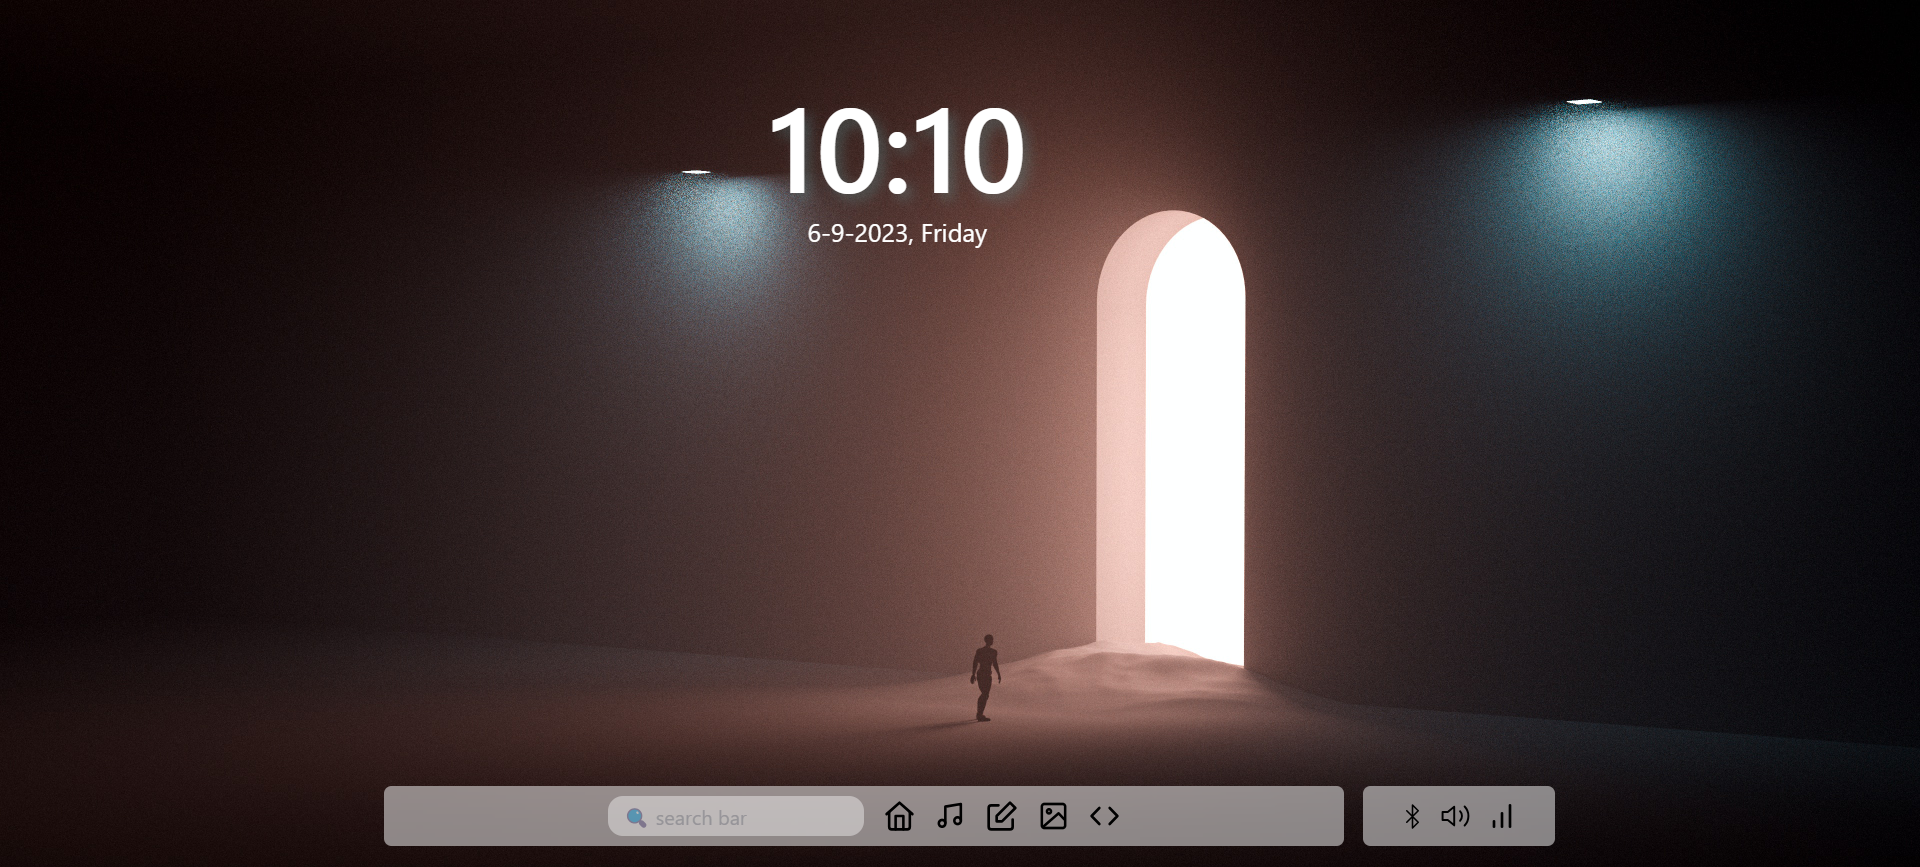
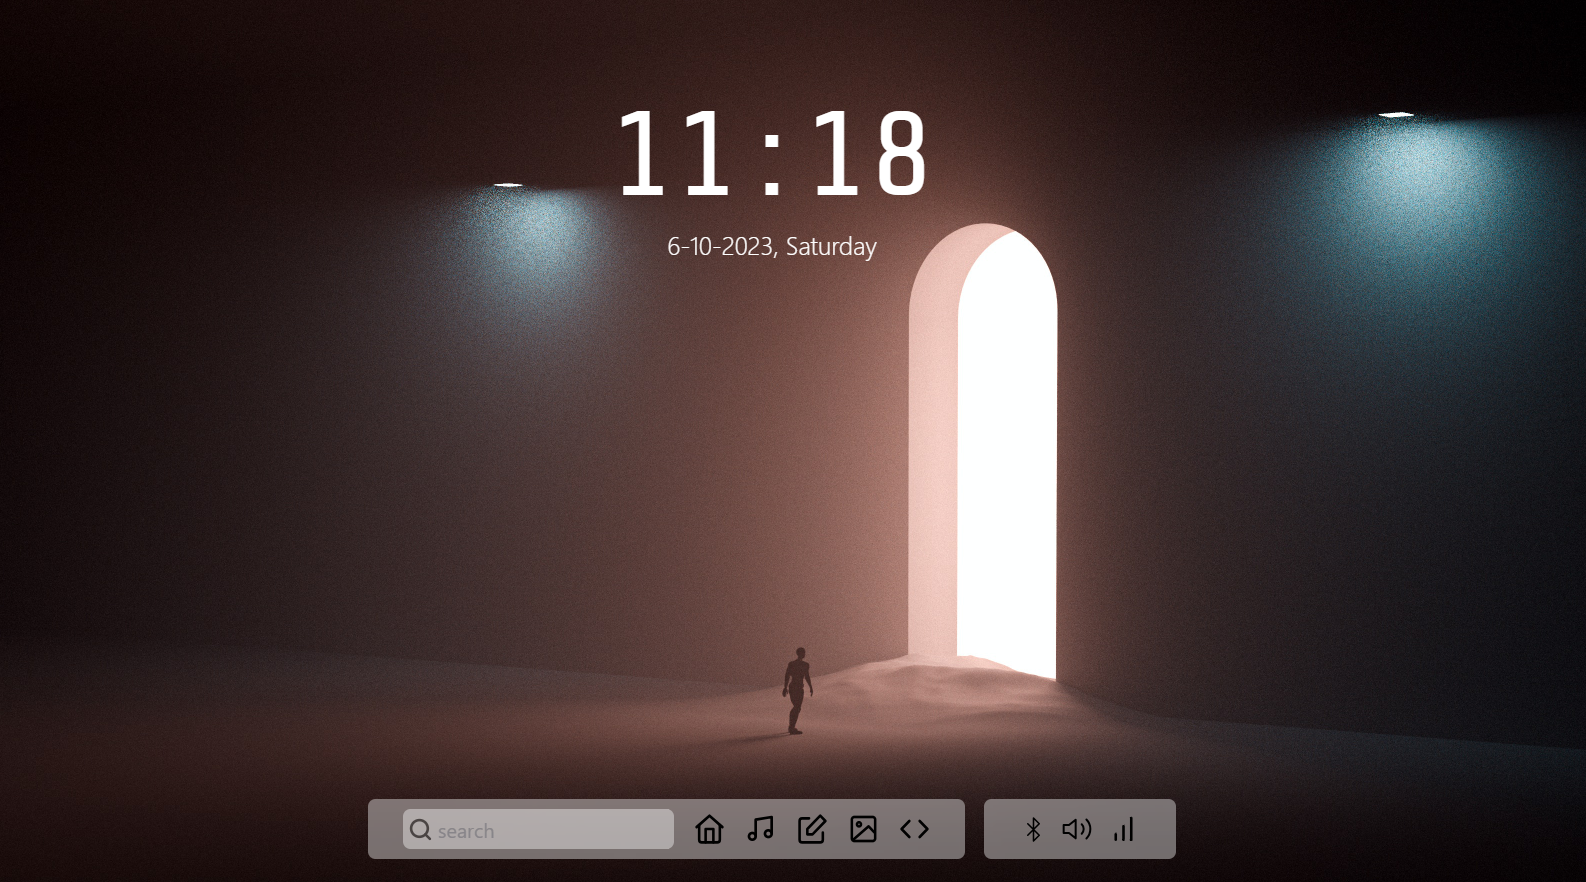
changing the user interface and updating music player

diff --git a/components/navbar.vue b/components/navbar.vue
@@ -1,10 +1,13 @@
 <template>
-    <div class=" flex absolute z-30 ml-[20vw]">
+    <div class=" flex absolute z-30 w-full justify-center">
 
         <!--nav bar on the left-->
-        <div class=" bg-white bg-opacity-50 backdrop-blur-md h-12 w-[50vw] rounded-md flex justify-center items-center nav">
+        <div class=" bg-white bg-opacity-40 backdrop-blur-md h-12 px-7 rounded-md flex justify-center items-center nav">
             <controlCenter v-if="showControl" />
-            <input class=" bg-white opacity-40 rounded-xl h-8 px-3 mr-4" placeholder="🔍 search bar" />
+            <div class=" bg-white opacity-40 rounded-md h-8 px-1 mr-4 flex items-center">
+                <svg xmlns="http://www.w3.org/2000/svg" width="20" height="20" viewBox="0 0 24 24" fill="none" stroke="#000000" stroke-width="2.5" stroke-linecap="round" stroke-linejoin="round"><circle cx="11" cy="11" r="8"></circle><line x1="21" y1="21" x2="16.65" y2="16.65"></line></svg>
+               <input class=" h-full px-1 text-black" placeholder="search" />
+            </div>
 
             <!--the control-->
             <svg class=" mr-4 hover:shadow-xl hover:shadow-white" @click="toggleControl" xmlns="http://www.w3.org/2000/svg" width="25" height="25" viewBox="0 0 24 24" fill="none" stroke="#000000" stroke-width="2" stroke-linecap="round" stroke-linejoin="round"><path d="M20 9v11a2 2 0 0 1-2 2H6a2 2 0 0 1-2-2V9"/><path d="M9 22V12h6v10M2 10.6L12 2l10 8.6"/></svg>
@@ -23,7 +26,7 @@
         </div>
 
         <!--nav bar on the right-->
-        <div class=" nav bg-white bg-opacity-50 backdrop-blur-md h-12 ml-[15px] w-[10vw] rounded-md flex items-center justify-center hover:bg-slate-100" @click="toggleSide" :class="(showSide === true) ?'bg-slate-100' :'bg-white'">
+        <div class=" nav bg-white bg-opacity-40 backdrop-blur-md h-12 ml-[15px] w-[10vw] rounded-md flex items-center justify-center hover:bg-slate-100" @click="toggleSide" :class="(showSide === true) ?'bg-slate-100' :'bg-white'">
             <SideControl v-if="showSide == true" />
             <svg class=" mr-3" xmlns="http://www.w3.org/2000/svg" width="20" height="20" viewBox="0 0 24 24" fill="none" stroke="#000000" stroke-width="1.5" stroke-linecap="round" stroke-linejoin="round"><polyline points="6.5 6.5 17.5 17.5 12 23 12 1 17.5 6.5 6.5 17.5"></polyline></svg>
             <svg class=" mr-3" xmlns="http://www.w3.org/2000/svg" width="25" height="25" viewBox="0 0 24 24" fill="none" stroke="#000000" stroke-width="1.5" stroke-linecap="round" stroke-linejoin="round"><polygon points="11 5 6 9 2 9 2 15 6 15 11 19 11 5"></polygon><path d="M19.07 4.93a10 10 0 0 1 0 14.14M15.54 8.46a5 5 0 0 1 0 7.07"></path></svg>

diff --git a/components/musicPlayerApp.vue b/components/musicPlayerApp.vue
@@ -4,18 +4,30 @@
         <!--bar for closure-->
         <controlBar component="music" />
 
-        <button @click="play()">hi queen</button>
+        <!--album covers-->
+        <div class="flex mt-2">
+            <div @click="play('thirsty')" class=" text-white" id="album 1">
+                <img class=" w-[15vw] h-[15vw] object-cover" src="https://64.media.tumblr.com/13269df25ca07f881e7a84d46f64be32/73e4b9b3628ee176-b7/s1280x1920/43c6be5a927878cfb76025235a9c1a104a8d3338.jpg" />
+                <p class=" font-bold">Thirsty</p>
+                <p>aespa</p>
+            </div>
 
-        <div class=" " id="album 1">
-            <img class=" w-[20vw] h-[20vw] object-cover" src="https://64.media.tumblr.com/13269df25ca07f881e7a84d46f64be32/73e4b9b3628ee176-b7/s1280x1920/43c6be5a927878cfb76025235a9c1a104a8d3338.jpg" />
+            <div @click="play('touchdown')" class=" text-white ml-5" id="album 1">
+                <img class=" w-[15vw] h-[15vw] object-cover" src="https://abs.twimg.com/sticky/default_profile_images/default_profile.png" />
+                <p class=" font-bold">Touch down</p>
+                <p>unknown</p>
+            </div>
+        </div>
+        
+        <!--music control bar-->
+        <div class=" h-20 border-t-4 border-t-white w-[68vw] absolute bottom-0">
 
         </div>
     </div>
 </template>
 
 <script setup>
-function play(){
-    new Audio("../_nuxt/media/thirsty.mp3").play()
+function play(input){
+    new Audio(`../_nuxt/media/${input}.mp3`).play()
 }
 </script>
-

diff --git a/components/timer.vue b/components/timer.vue
@@ -1,7 +1,7 @@
 <template>
-  <div class=" absolute z-30 text-center">
-    <h1 class=" text-8xl text-white text-shadow font-semibold">{{hour}}:{{minute}}</h1>
-    <p class=" text-white text-xl font-normal mt-2">{{ date }}, {{ weekday }}</p>
+  <div class=" absolute z-30 grid w-full justify-center">
+    <h1 class=" text-8xl text-white" id="special-font">{{hour}}:{{minute}}</h1>
+    <p class=" text-white text-xl font-thin mt-2 text-center">{{ date }}, {{ weekday }}</p>
   </div>
 </template>
 
@@ -35,7 +35,9 @@ setInterval(timer,1000)
 </script>
 
 <style>
-.text-shadow{
-    text-shadow: 5px 5px 10px rgba(101, 178, 181, 0.3);
+@import url('https://fonts.googleapis.com/css?family=Share+Tech+Mono');
+
+#special-font{
+  font-family:"Share Tech Mono", sans-serif
 }
 </style>

diff --git a/app.vue b/app.vue
@@ -1,7 +1,7 @@
 <template>
   <div>
     <start_screen v-if="mode === 'start'" />
-    <timer class=" font-thin ml-[40vw] top-20 mx-auto"  v-if="mode === 'operating' && store.components.includes('timer')"/>
+    <timer class=" font-thin top-20 mx-auto"  v-if="mode === 'operating' && store.components.includes('timer')"/>
     <navbar class=" mb-5 bottom-2 fixed" v-if="mode === 'operating'"/>
     <CommandLineApp v-if="store.components.includes('cli')"></commandLineApp>
     <musicPlayerApp v-if="store.components.includes('music')"></musicPlayerApp>

diff --git a/components/sideControl.vue b/components/sideControl.vue
@@ -1,5 +1,5 @@
 <template>
-     <div class="rounded-md absolute h-36 w-[20vw] bg-white mb-60 nav bg-white bg-opacity-80 backdrop-blur-md p-4">
+     <div class="rounded-md absolute h-36 w-[20vw] bg-white mb-60 nav bg-opacity-80 backdrop-blur-md p-4">
 
         <!--status bar-->
 

diff --git a/progress.md b/progress.md
@@ -1,0 +1,19 @@
+### The plans
+- **Music player**
+    - [ ] complete user interface
+    - [ ] add functionality
+    - [ ] add custom music - considering(?)
+- **Control center**
+    - [ ] finish user interface
+    - [ ] add interactive feeds
+- **search bar**
+    - [ ] connect to google
+- **Gallery**
+    - [ ] making user inteface
+- **Side control**
+    - [ ] making hover effect
+    - [ ] changing color of button
+- **Browser**
+    - currently no plan
+- **CLI**
+    - update more command in future
